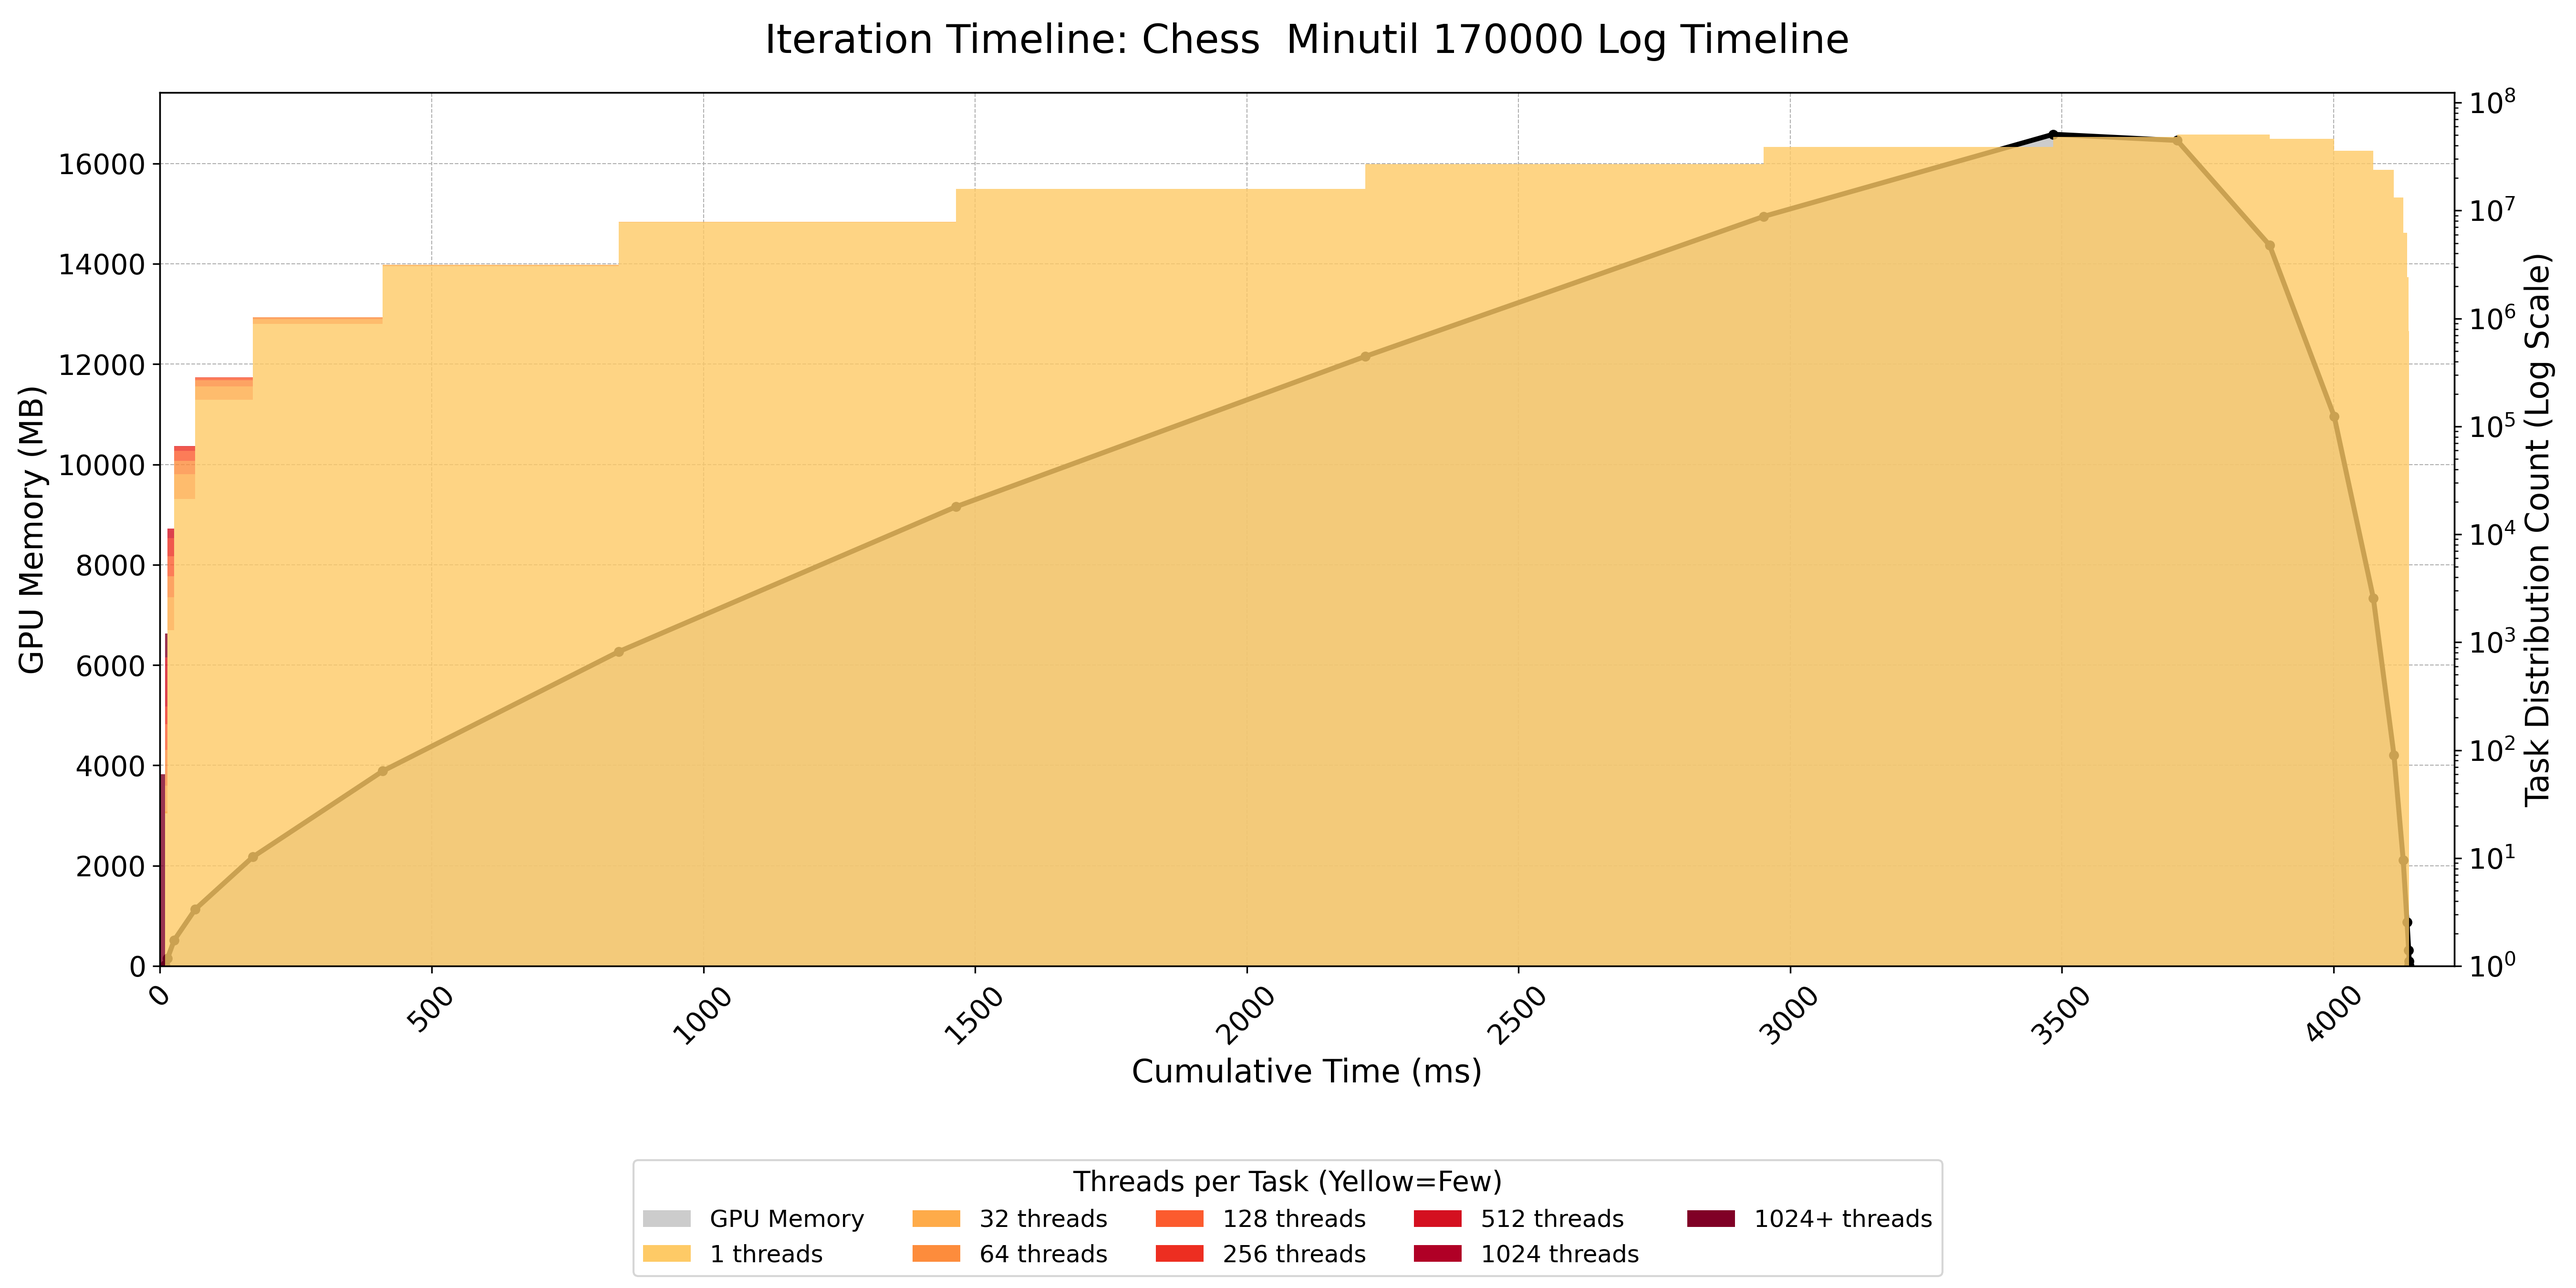
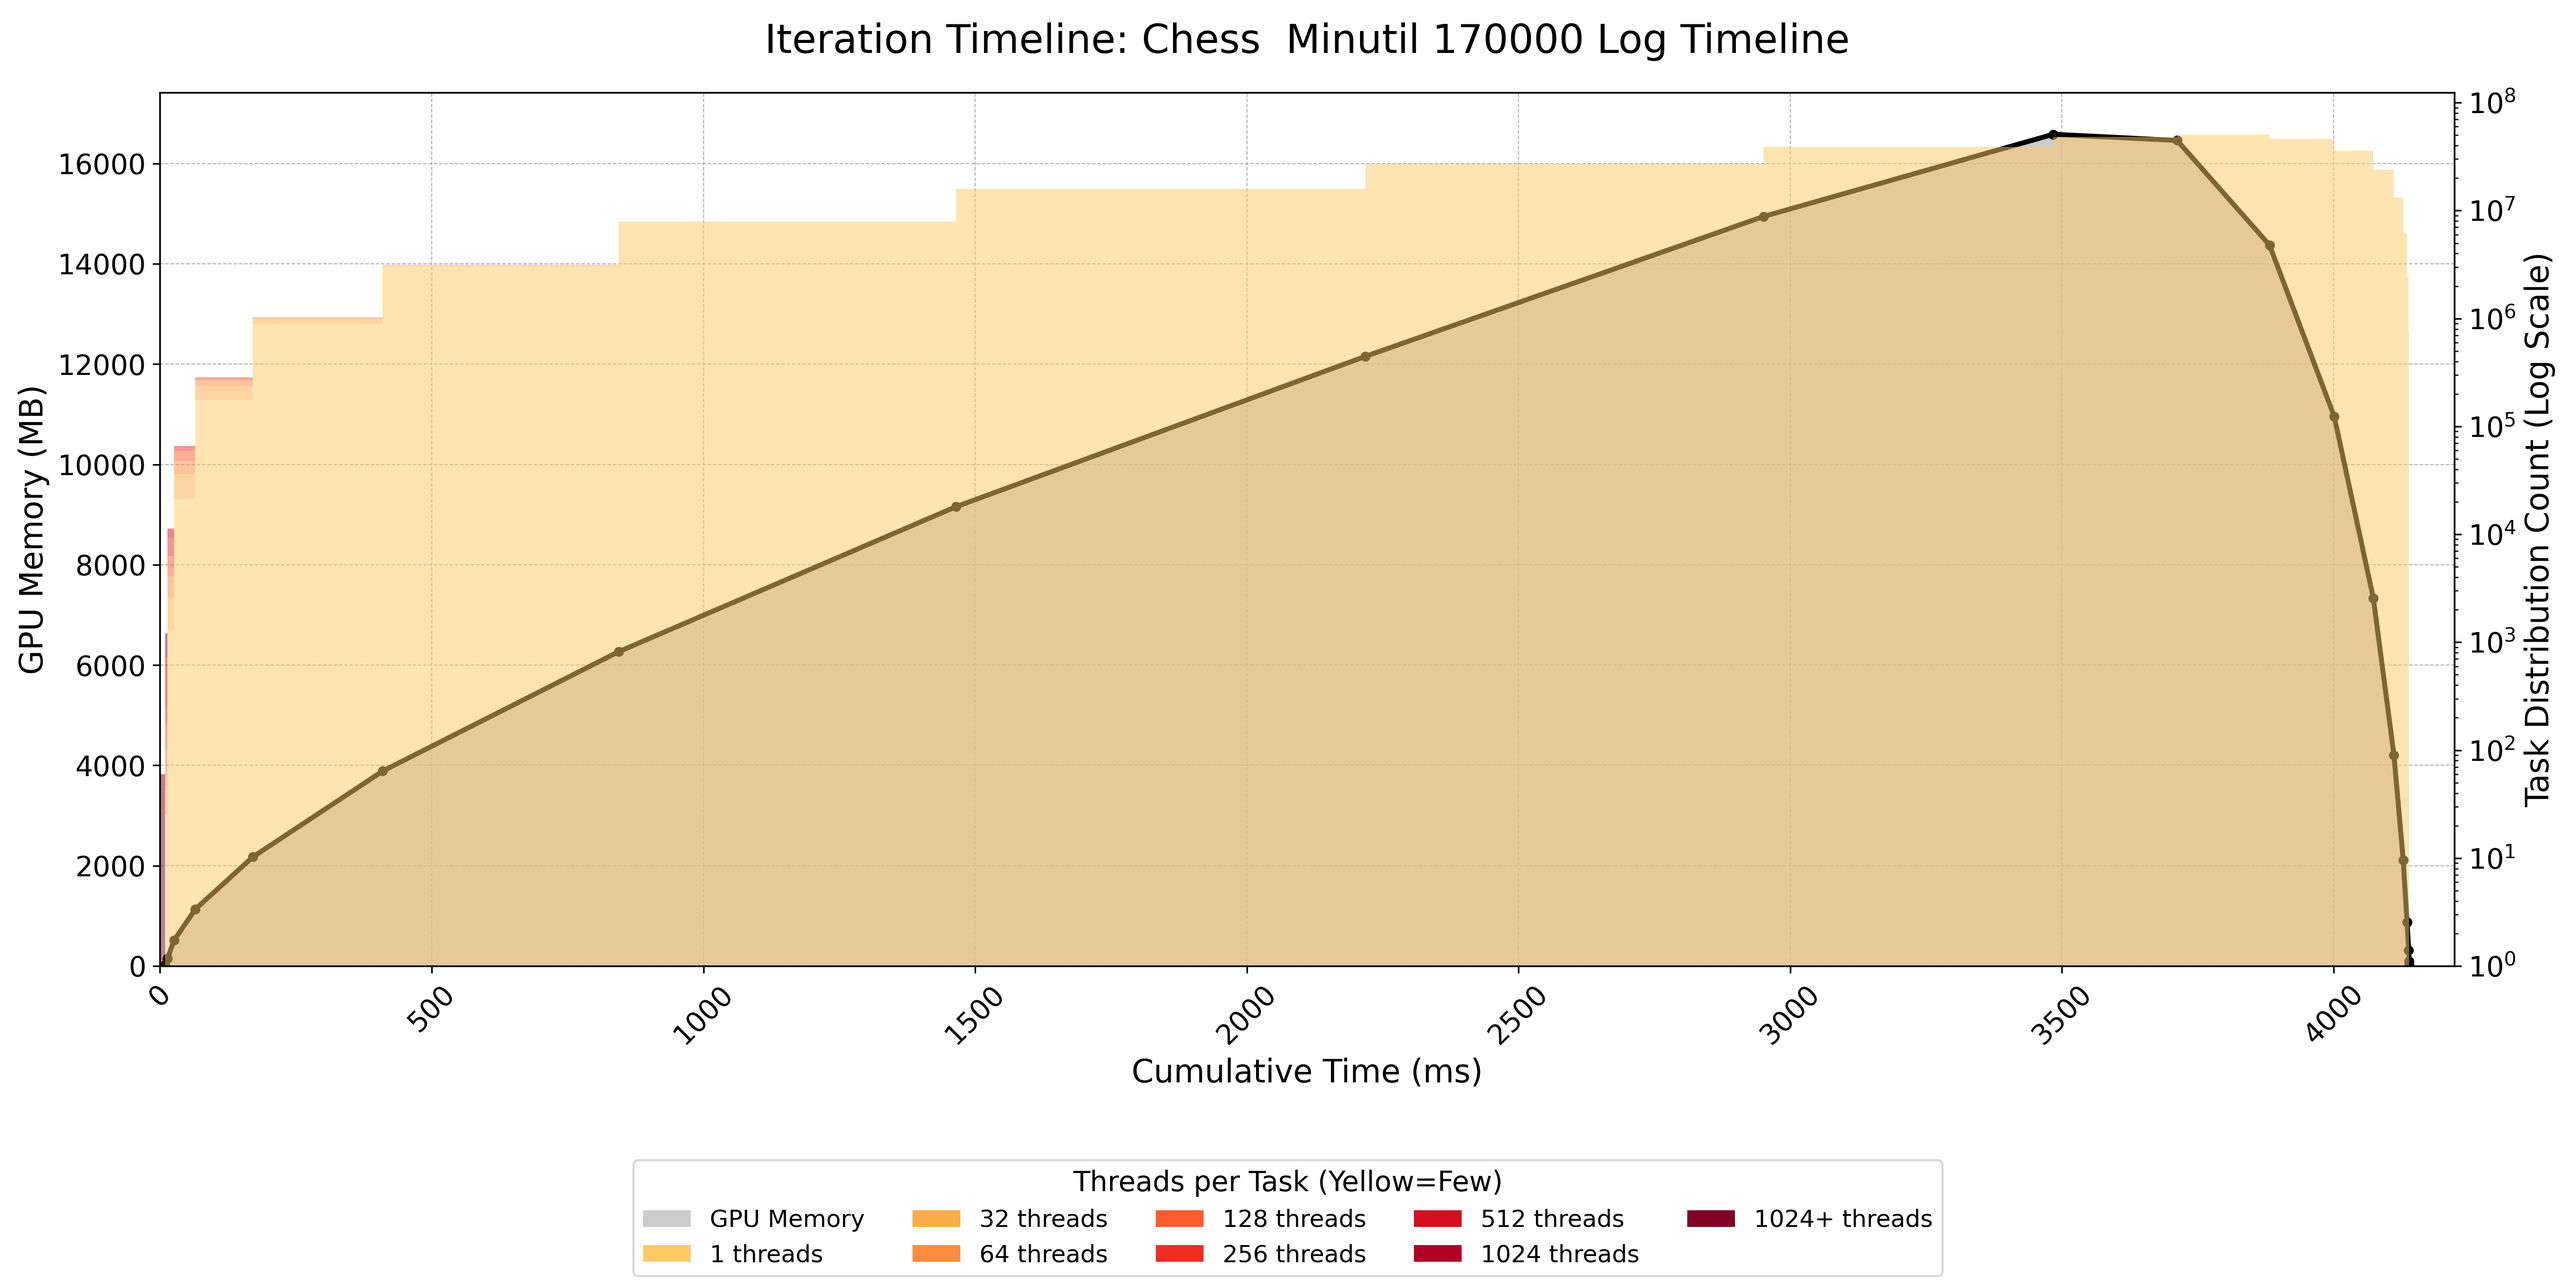
fix the pattern maybe?

diff --git a/experiments/timeline.py b/experiments/timeline.py
@@ -215,7 +215,7 @@ def plot_log_timeline(df: pd.DataFrame, output_filename: str) -> None:
                     width=row["time_ms"] if row["time_ms"] > 0 else 0.1,
                     bottom=bottom if bottom > 0 else 1,
                     color=colors[i], align="edge", linewidth=0,
-                    alpha=0.8
+                    alpha=0.5
                 )
             bottom += task_count
     
